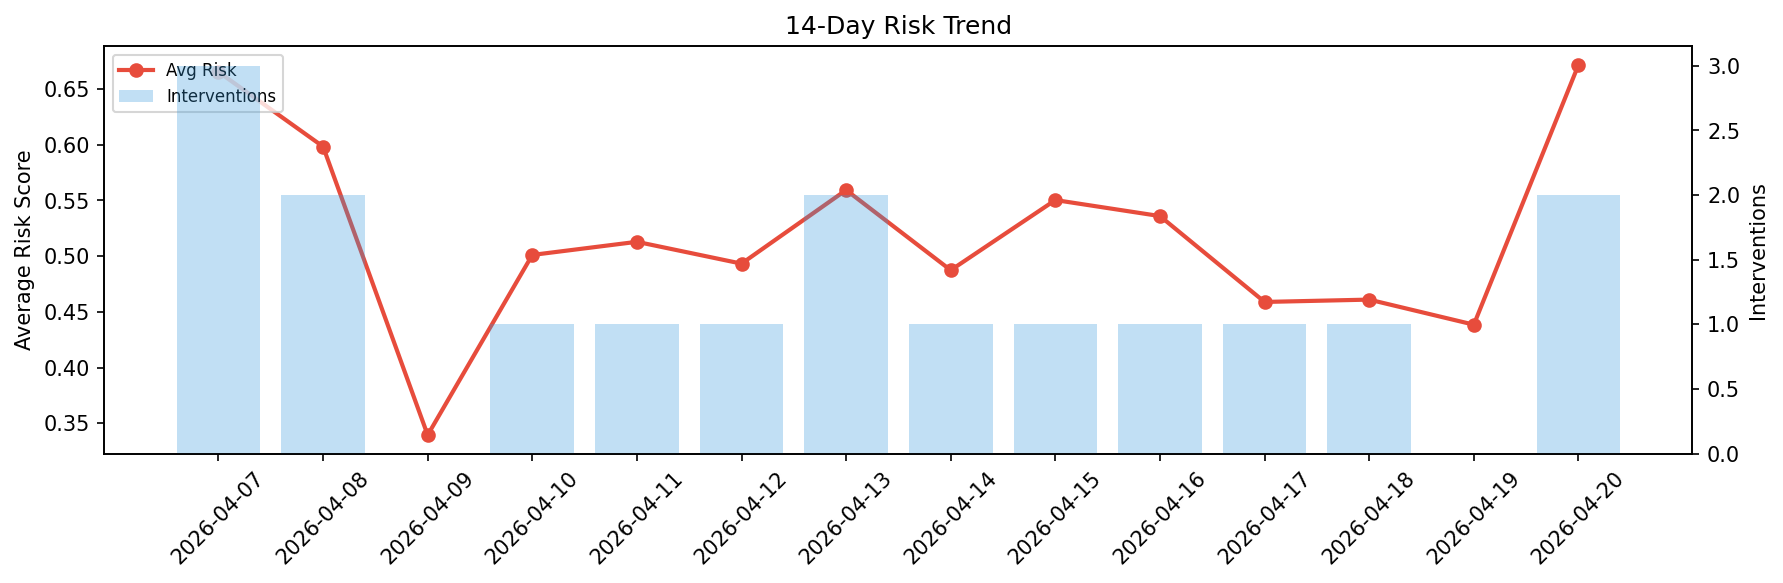
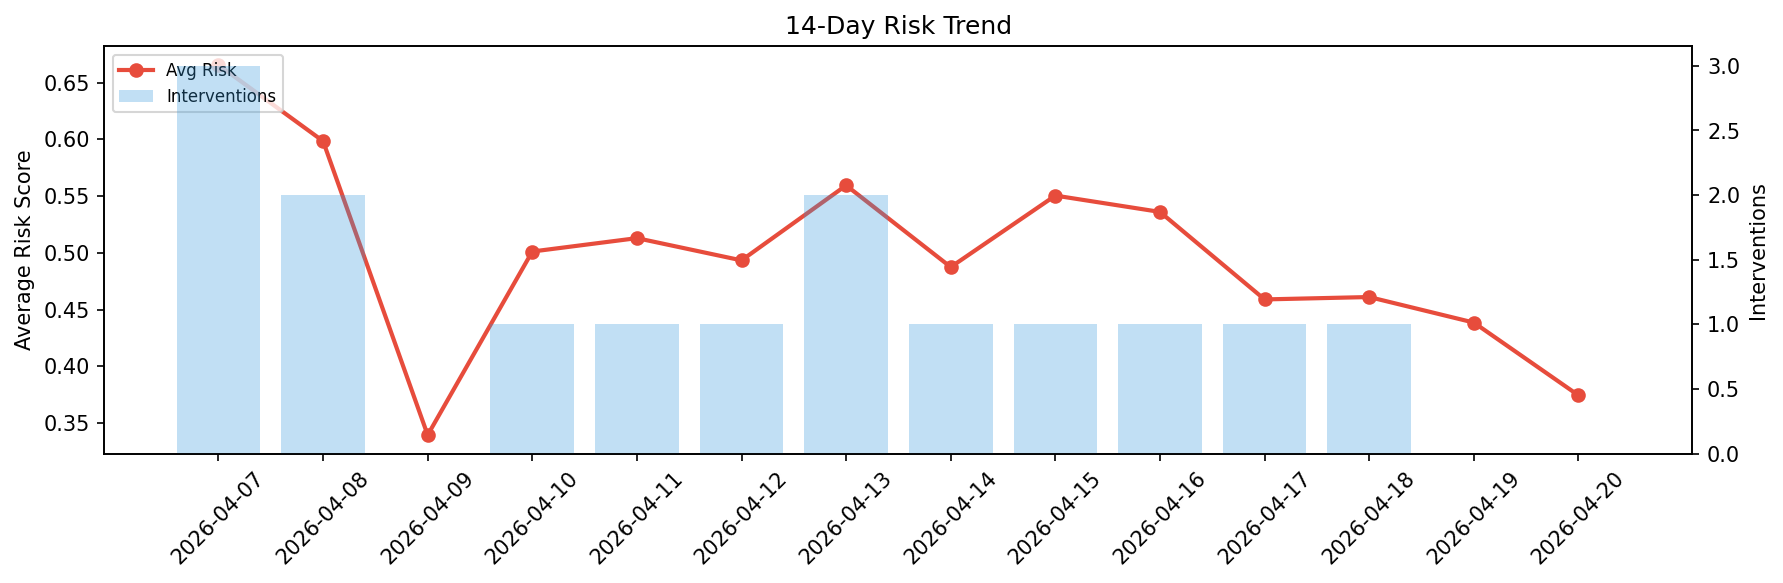
agent-improvement: daily cycle 2026-04-20T15:44

diff --git a/logs/2026-04-20.md b/logs/2026-04-20.md
@@ -1,6 +1,6 @@
 # Agent Improvement Report — 2026-04-20
 
-**Cycle ID:** `381ec66c` | **Avg Risk:** 0.6717 | **Interventions:** 2/4
+**Cycle ID:** `3a663c1c` | **Avg Risk:** 0.3744 | **Interventions:** 0/4
 
 ![Dashboard](2026-04-20_dashboard.png)
 
@@ -10,18 +10,18 @@
 
 | Domain | Risk Score | Decision | Alerts |
 |--------|-----------|----------|--------|
-| code_review | 0.7047 | intervene | complexity, duplication |
-| incident_response | 0.4922 | monitor | mttr |
-| data_pipeline | 0.964 | intervene | freshness, schema_drift, volume_anomaly |
-| deployment | 0.526 | monitor | latency_p99 |
+| code_review | 0.3944 | monitor | none |
+| incident_response | 0.382 | monitor | blast_radius |
+| data_pipeline | 0.4225 | monitor | none |
+| deployment | 0.2987 | monitor | none |
 
 ## Delta vs Yesterday
 
 | Domain | Today | Yesterday | Change |
 |--------|-------|-----------|--------|
-| code_review | 0.7047 | 0.2312 | 📈 204.8% |
-| incident_response | 0.4922 | 0.4425 | 📈 11.2% |
-| data_pipeline | 0.964 | 0.5411 | 📈 78.2% |
-| deployment | 0.526 | 0.5393 | 📉 -2.5% |
+| code_review | 0.3944 | 0.2312 | 📈 70.6% |
+| incident_response | 0.382 | 0.4425 | 📉 -13.7% |
+| data_pipeline | 0.4225 | 0.5411 | 📉 -21.9% |
+| deployment | 0.2987 | 0.5393 | 📉 -44.6% |
 
 **Refinement:** `{'adjustment': 'maintain', 'trend': 'improving', 'window': 4}`
